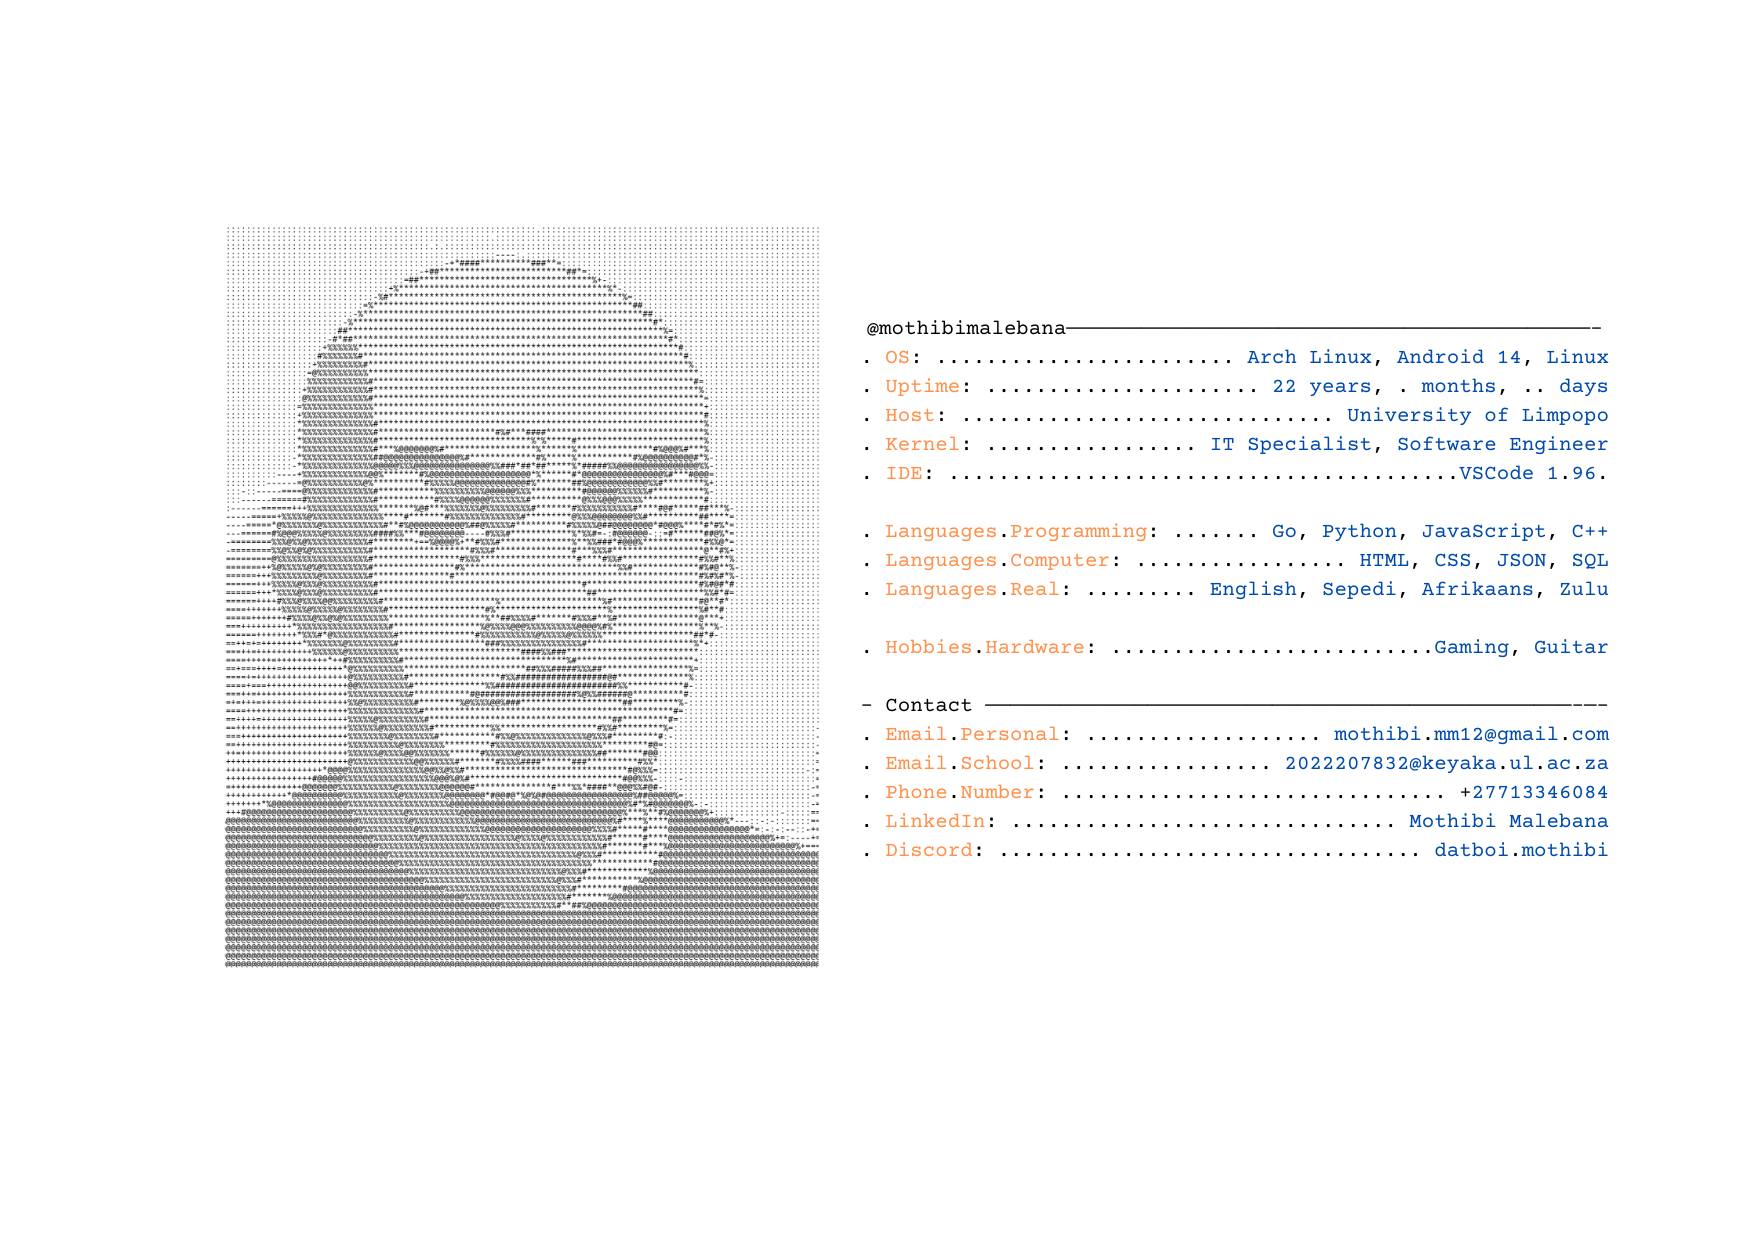
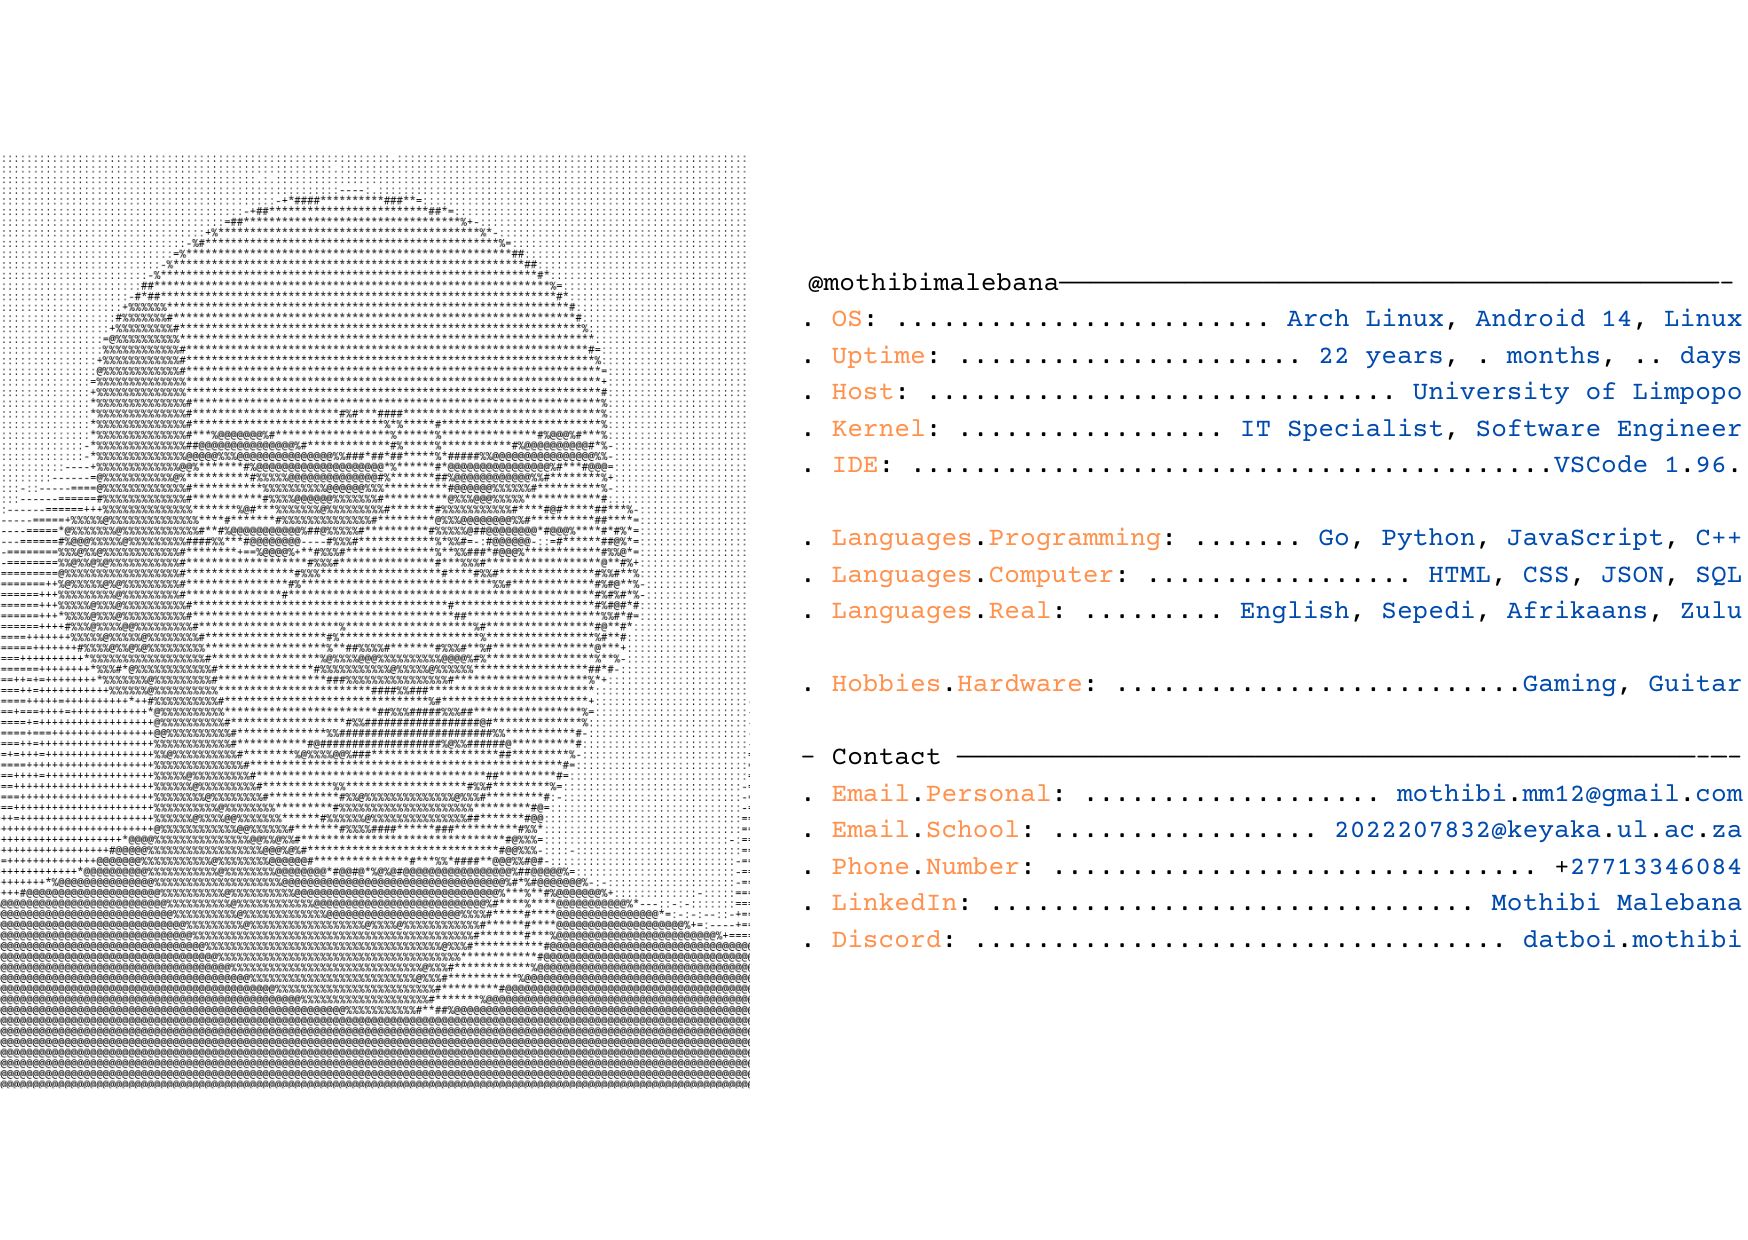
Add image above bio section

Changed region(s): [[0.0, 0.1226, 0.6796, 0.8887], [0.6796, 0.429, 1.0, 0.7661], [0.6796, 0.2452, 1.0, 0.3984]]

diff --git a/index.html b/index.html
@@ -17,6 +17,9 @@
                     <button class="nav-buttons">Contact Us</button>
                 </div>
             </nav>
+            <div class="image">
+                <img src="public/img/card.png" width="800" height="850" alt="A lion">
+            </div>
         </header>
     </body>
 </html>
